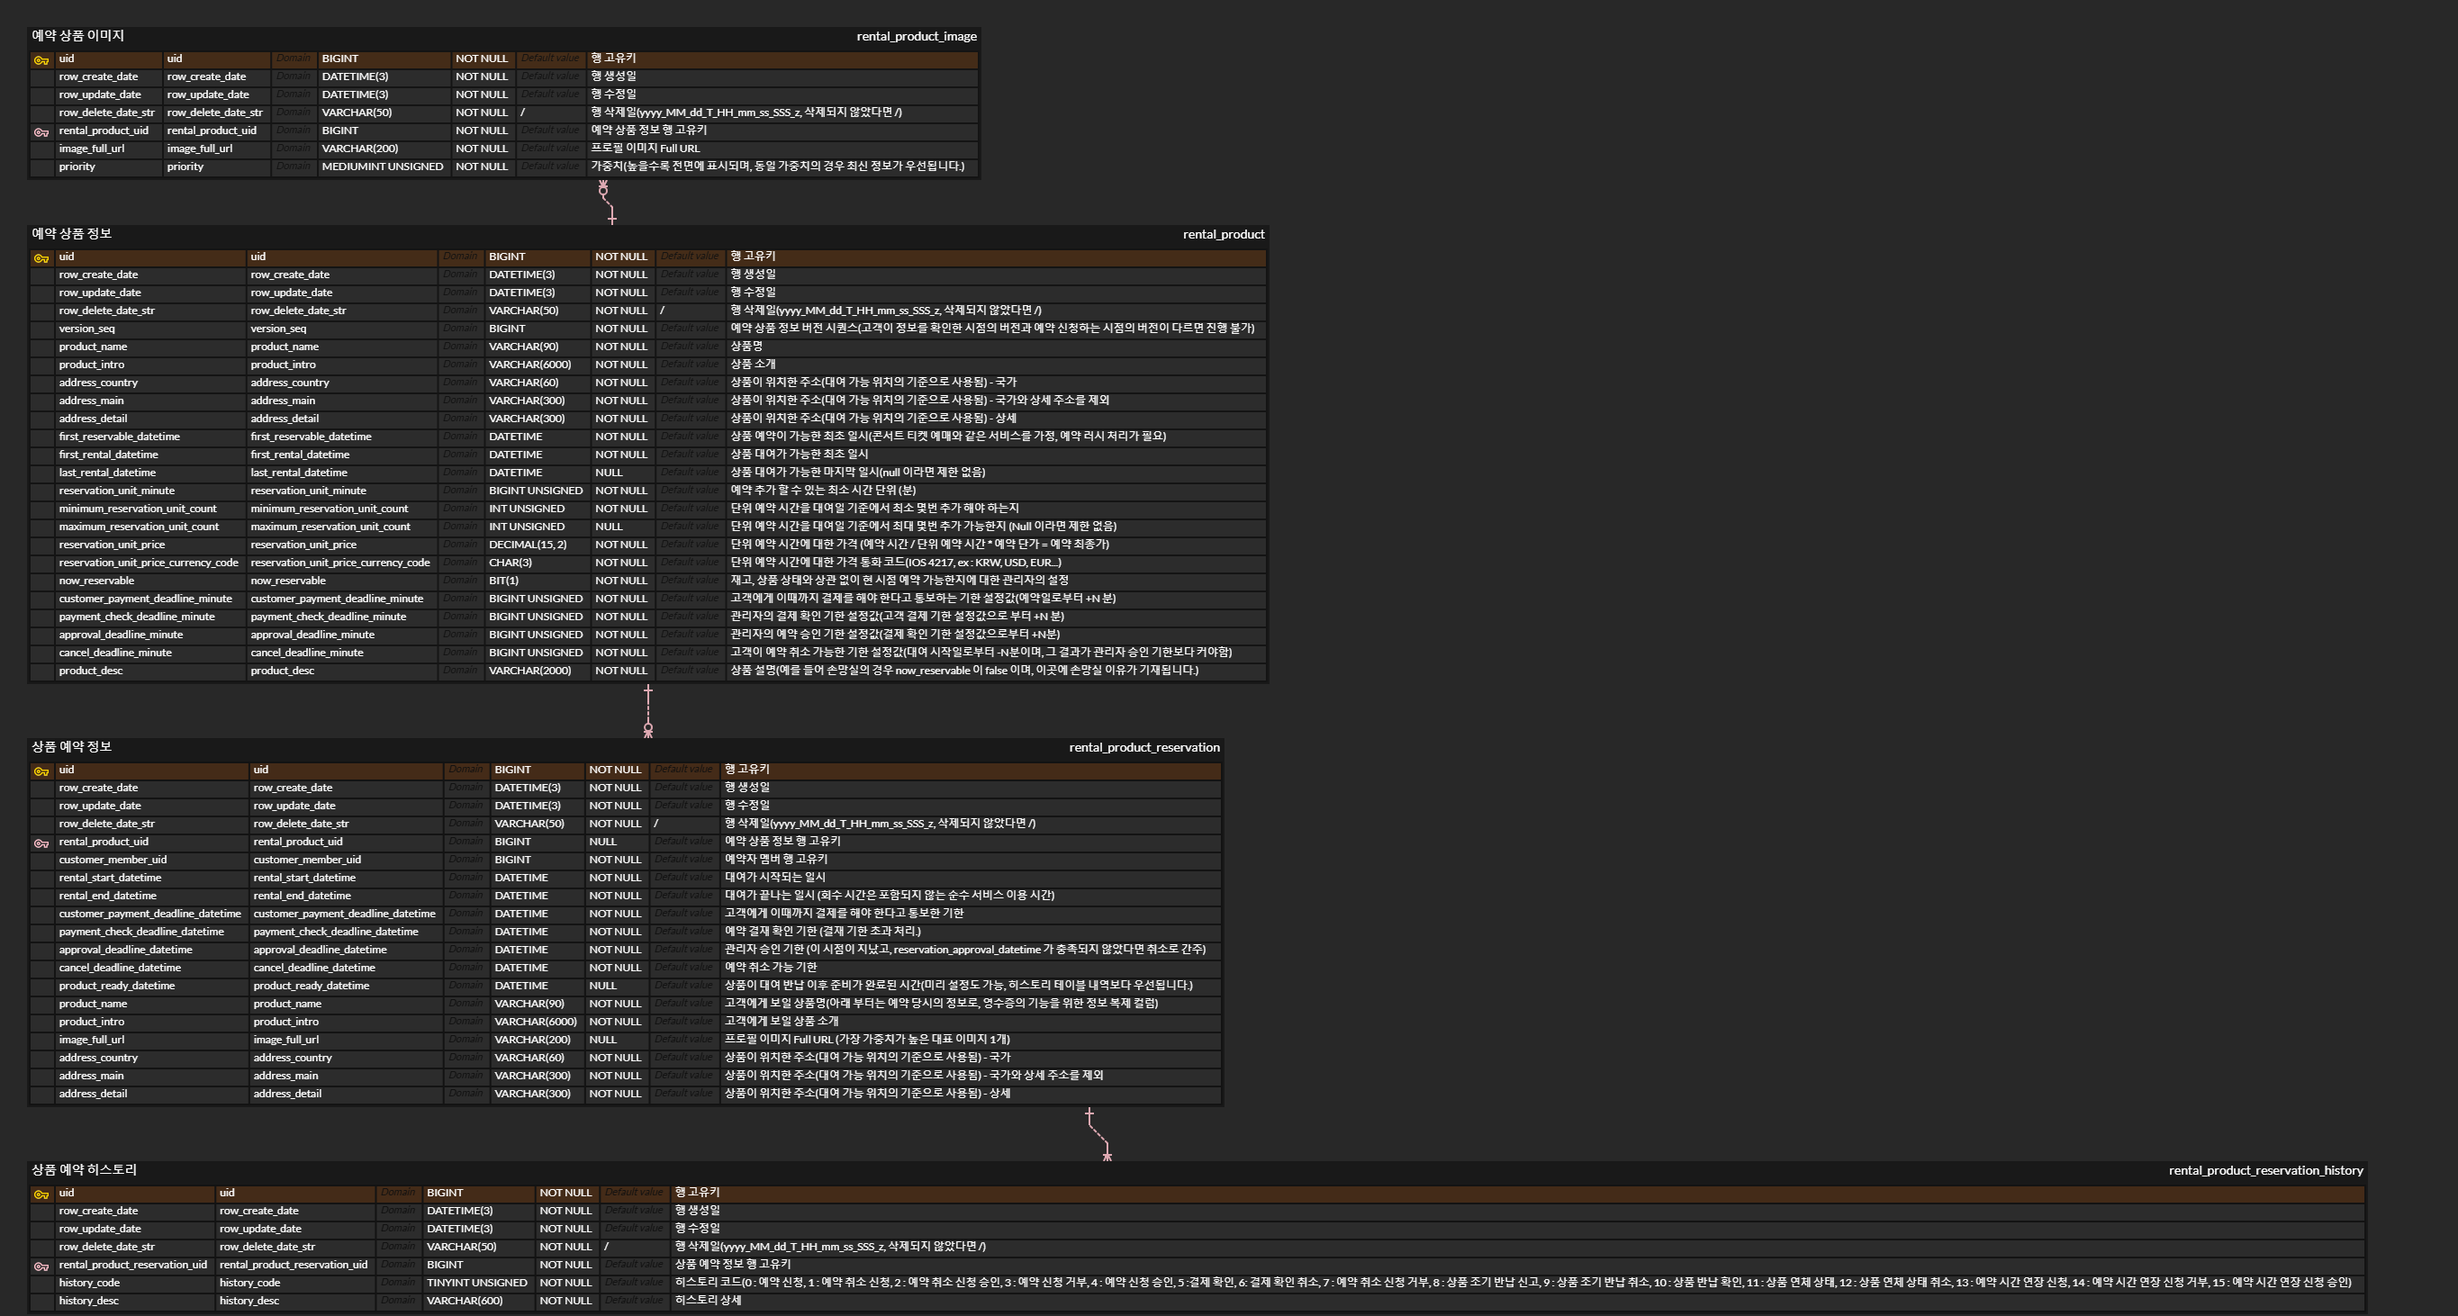
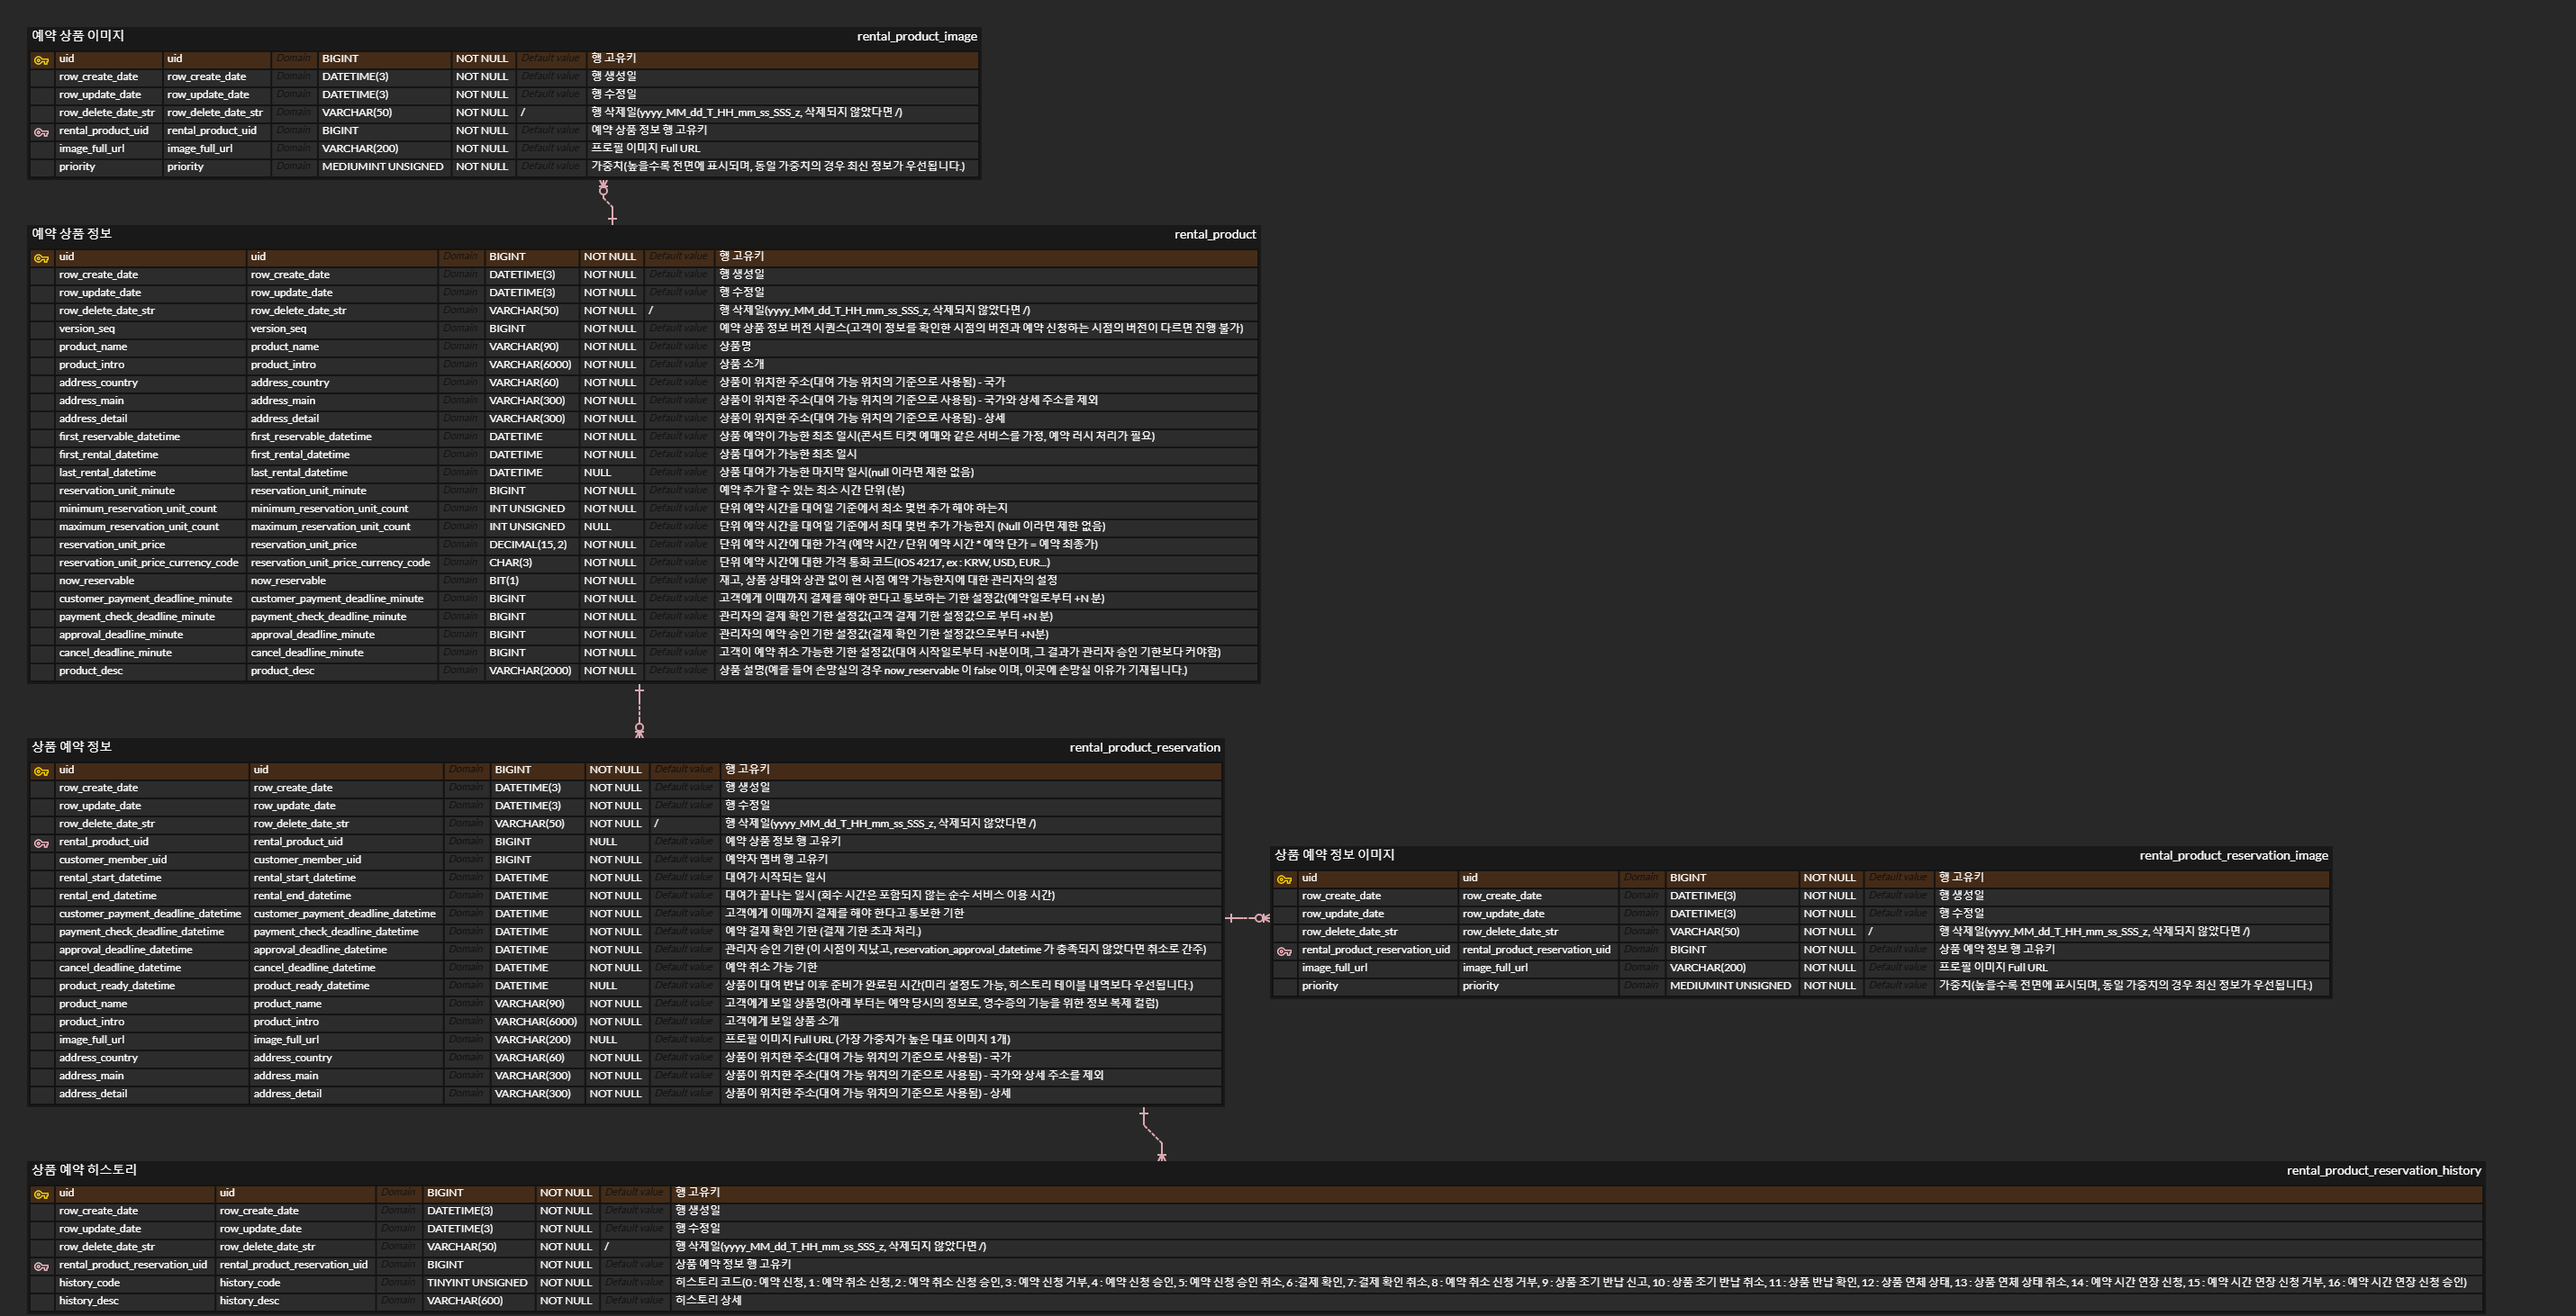
update : 예약 시스템 테이블 수정

diff --git a/module-service-rental-reservation/src/main/kotlin/com/raillylinker/jpa_beans/db1_main/entities/Db1_RaillyLinkerCompany_RentalProductReservationImage.kt b/module-service-rental-reservation/src/main/kotlin/com/raillylinker/jpa_beans/db1_main/entities/Db1_RaillyLinkerCompany_RentalProductReservationImage.kt
@@ -1,0 +1,54 @@
+package com.raillylinker.jpa_beans.db1_main.entities
+
+import jakarta.persistence.*
+import org.hibernate.annotations.ColumnDefault
+import org.hibernate.annotations.Comment
+import org.hibernate.annotations.CreationTimestamp
+import org.hibernate.annotations.UpdateTimestamp
+import java.time.LocalDateTime
+
+@Entity
+@Table(
+    name = "rental_product_reservation_image",
+    catalog = "railly_linker_company"
+)
+@Comment("상품 예약 정보 이미지 테이블")
+class Db1_RaillyLinkerCompany_RentalProductReservationImage(
+    @ManyToOne
+    @JoinColumn(name = "rental_product_reservation_uid", nullable = false)
+    @Comment("상품 예약 정보 행 고유키")
+    var rentalProductReservation: Db1_RaillyLinkerCompany_RentalProductReservation,
+
+    @Column(name = "image_full_url", nullable = false, columnDefinition = "VARCHAR(200)")
+    @Comment("상품 이미지 Full URL")
+    var imageFullUrl: String,
+
+    @Column(name = "priority", nullable = false, columnDefinition = "MEDIUMINT UNSIGNED")
+    @Comment("가중치(높을수록 전면에 표시되며, 동일 가중치의 경우 최신 정보가 우선됩니다.)")
+    var priority: Int
+) {
+    @Id
+    @GeneratedValue(strategy = GenerationType.IDENTITY)
+    @Column(name = "uid", columnDefinition = "BIGINT")
+    @Comment("행 고유값")
+    var uid: Long? = null
+
+    @Column(name = "row_create_date", nullable = false, columnDefinition = "DATETIME(3)")
+    @CreationTimestamp
+    @Comment("행 생성일")
+    var rowCreateDate: LocalDateTime? = null
+
+    @Column(name = "row_update_date", nullable = false, columnDefinition = "DATETIME(3)")
+    @UpdateTimestamp
+    @Comment("행 수정일")
+    var rowUpdateDate: LocalDateTime? = null
+
+    @Column(name = "row_delete_date_str", nullable = false, columnDefinition = "VARCHAR(50)")
+    @ColumnDefault("'/'")
+    @Comment("행 삭제일(yyyy_MM_dd_T_HH_mm_ss_SSS_z, 삭제되지 않았다면 /)")
+    var rowDeleteDateStr: String = "/"
+
+
+    // ---------------------------------------------------------------------------------------------
+    // <중첩 클래스 공간>
+}

diff --git a/module-service-rental-reservation/src/main/kotlin/com/raillylinker/jpa_beans/db1_main/repositories/Db1_RaillyLinkerCompany_RentalProductReservationImage_Repository.kt b/module-service-rental-reservation/src/main/kotlin/com/raillylinker/jpa_beans/db1_main/repositories/Db1_RaillyLinkerCompany_RentalProductReservationImage_Repository.kt
@@ -1,0 +1,14 @@
+package com.raillylinker.jpa_beans.db1_main.repositories
+
+import com.raillylinker.jpa_beans.db1_main.entities.Db1_RaillyLinkerCompany_RentalProductReservationImage
+import org.springframework.data.jpa.repository.JpaRepository
+import org.springframework.stereotype.Repository
+
+@Repository
+interface Db1_RaillyLinkerCompany_RentalProductReservationImage_Repository :
+    JpaRepository<Db1_RaillyLinkerCompany_RentalProductReservationImage, Long> {
+    fun findByUidAndRowDeleteDateStr(
+        uid: Long,
+        rowDeleteDateStr: String
+    ): Db1_RaillyLinkerCompany_RentalProductReservationImage?
+}
